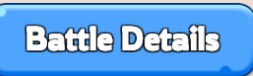
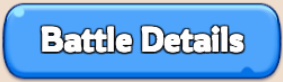
Capture alonso solo v2 testcase data

diff --git a/tests/skill/test_report_capture_contracts.py b/tests/skill/test_report_capture_contracts.py
@@ -104,6 +104,24 @@ class ReportCaptureContractTests(unittest.TestCase):
             ("2026-04-29 20:57:28", 1777496248),
         )
 
+    def test_report_timestamp_accepts_split_second_ocr_dot(self) -> None:
+        candidates = [
+            {"text": "We", "x": 193, "y": 241},
+            {"text": "were", "x": 242, "y": 242},
+            {"text": "victorious", "x": 324, "y": 242},
+            {"text": "against", "x": 416, "y": 243},
+            {"text": "[BBQ]XxWIPxX!", "x": 537, "y": 242},
+            {"text": "2026-05-05", "x": 241, "y": 272},
+            {"text": "17:53:4.5", "x": 356, "y": 273},
+            {"text": "Attacker", "x": 230, "y": 352},
+            {"text": "Defeat", "x": 331, "y": 352},
+        ]
+
+        self.assertEqual(
+            _extract_report_timestamp(candidates),
+            ("2026-05-05 17:53:45", 1778003625),
+        )
+
     def test_report_end_detects_battle_details_button_template(self) -> None:
         template = cv2.imread(str(ROOT / "skill" / "templates" / "battle_details_button.png"), cv2.IMREAD_COLOR)
         self.assertIsNotNone(template)

diff --git a/skill/scripts/report_reader.py b/skill/scripts/report_reader.py
@@ -126,8 +126,13 @@ def _extract_report_timestamp(candidates: list[dict]) -> tuple[str, float] | Non
     for text in texts:
         match = re.search(r'(\d{4}-\d{2}-\d{2})\s*(\d{2}:\d{2}:\d{2})', text)
         if not match:
-            continue
-        timestamp_str = f"{match.group(1)} {match.group(2)}"
+            match = re.search(r'(\d{4}-\d{2}-\d{2})\s*(\d{2}:\d{2}):(\d)[.:](\d)', text)
+            if match:
+                timestamp_str = f"{match.group(1)} {match.group(2)}:{match.group(3)}{match.group(4)}"
+            else:
+                continue
+        else:
+            timestamp_str = f"{match.group(1)} {match.group(2)}"
         try:
             timestamp = calendar.timegm(time.strptime(timestamp_str, "%Y-%m-%d %H:%M:%S"))
         except ValueError:

diff --git a/skill/scripts/dispatch.py b/skill/scripts/dispatch.py
@@ -148,7 +148,7 @@ def _find_and_tap(emulator: WosEmulator, template_path: str, label: str, thresho
 def _verify_preset7_selected(emulator: WosEmulator) -> None:
     """Fail unless deploy preset slot 7 is visibly selected."""
     img = emulator.screencap_bgr()
-    found, _ = find_template(img, TPL_FLAG_7_SELECTED, threshold=0.90)
+    found, _ = find_template(img, TPL_FLAG_7_SELECTED, threshold=0.70)
     if not found:
         raise WosDispatchError("Preset 7 did not show selected state after tap")
 
@@ -164,6 +164,8 @@ def _save_preset7(emulator: WosEmulator) -> None:
     _find_and_tap(emulator, TPL_SAVE_FLAG, "SaveFlag")
     time.sleep(1)
     _select_preset7(emulator, "SaveFlagPreset7")
+    logger.info("deploy_army: confirming preset slot 7 save")
+    _find_and_tap(emulator, TPL_RECALL_CONFIRM, "SaveFlagConfirm", threshold=0.80)
     time.sleep(1)
 
 
@@ -352,6 +354,7 @@ def recall_camp(emulator: WosEmulator) -> None:
         logger.info("recall_camp: troops recalled")
     except WosDispatchError:
         logger.info("recall_camp: camp recall button not found — no troops to recall")
+    goto_world_map(emulator)
 
 # ─── Tile finding ─────────────────────────────────────────────────────────────
 def find_empty_tile(emulator: WosEmulator) -> tuple[int, int]: